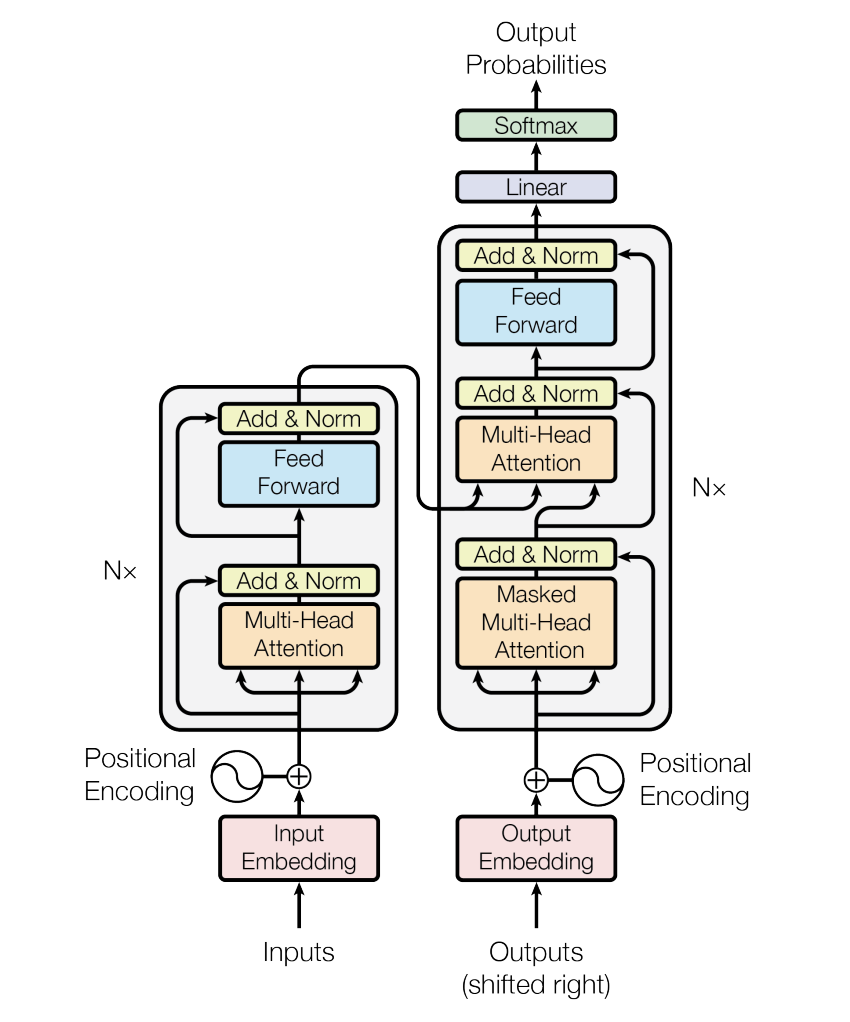
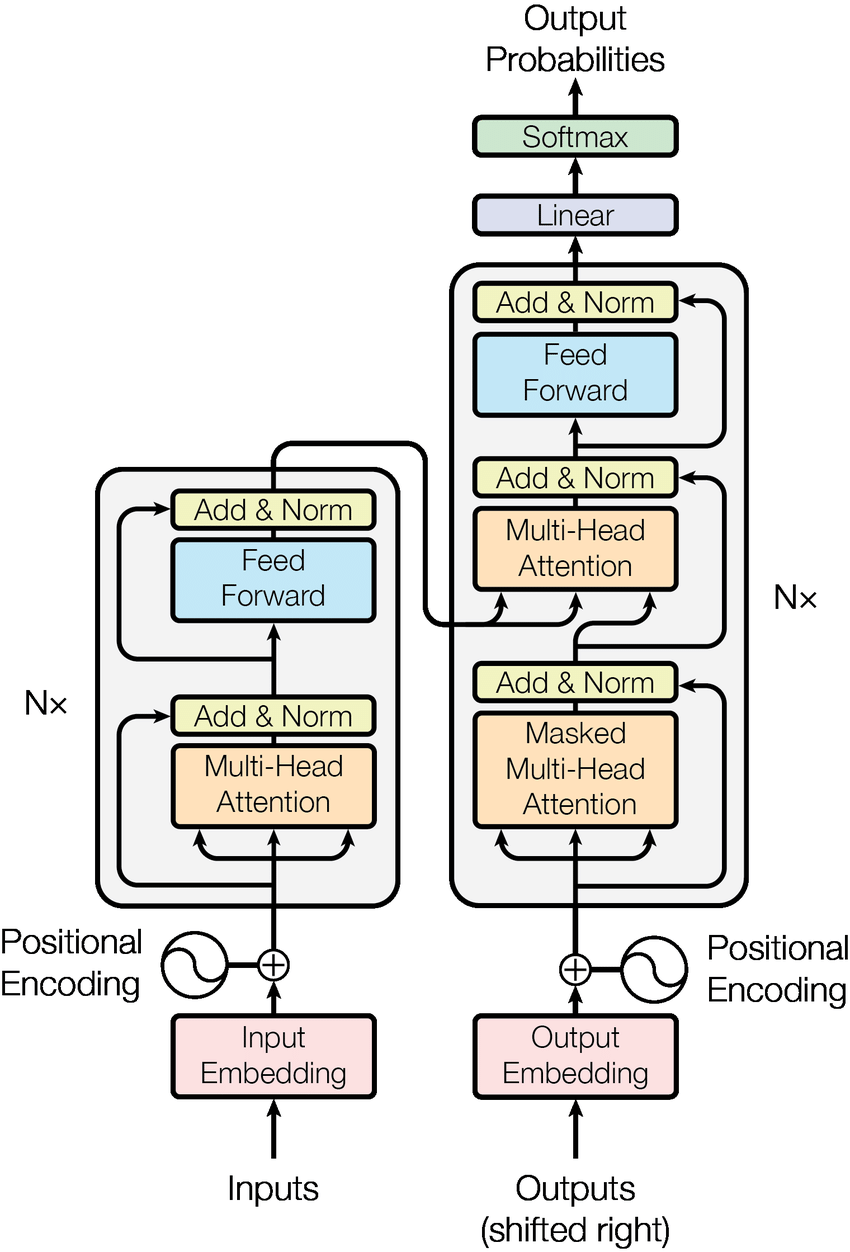
chapter 2.2

Changed region(s): [[0.0, 0.0, 1.0, 1.0]]

diff --git a/src/chapters/chapter-2/02-transformer.tex b/src/chapters/chapter-2/02-transformer.tex
@@ -1,14 +1,21 @@
 \section{\textit{Transformer}}
 
-\textit{Transformer} telah mengubah lanskap pemrosesan bahasa alami (NLP) dengan cara yang signifikan. Dalam penelitian mereka, penulis memperkenalkan konsep baru yang disebut mekanisme \textit{self-attention} \parencite{transformers}. Mekanisme ini memungkinkan setiap kata dalam input untuk memfokuskan pada kata-kata lain dalam sekuens yang sama, memberikan model kemampuan untuk memahami konteks dengan lebih baik. Ini berbeda dari pendekatan yang biasanya mengandalkan informasi lokal atau posisi tetap dalam sekuens.
+\textit{Transformer} telah mengubah lanskap pemrosesan bahasa alami (NLP) dengan cara yang signifikan. Dalam penelitian mereka, penulis memperkenalkan konsep baru yang disebut mekanisme \textit{self-attention} \parencite{transformers}. Mekanisme ini memungkinkan setiap kata dalam input untuk memfokuskan pada kata-kata lain dalam sekuens yang sama, memberikan model kemampuan untuk memahami konteks dengan lebih baik. Ini berbeda dari pendekatan yang biasanya mengandalkan informasi lokal atau posisi tetap dalam sekuens. Model transformers mengatasi isu pada \textit{Recurrent Neural Network} (RNN) yang tidak bisa menjalani pemrosesan secara paralel \parencite{transformers}.
 
 \begin{figure}[ht]
     \centering
-    \includegraphics[width=0.8\textwidth]{chapter-2/transformer.png}
+    \includegraphics[height=0.5\textheight]{chapter-2/transformer.png}
     \caption{Arsitektur \textit{Transformer} \parencite{transformers}}
     \label{fig:transformer}
 \end{figure}
 
-Arsitektur dari \textit{transformer} dapat dilihat pada Gambar \ref{fig:transformer}. Salah satu keunggulan utama dari mekanisme \textit{self-attention} adalah kemampuannya untuk menangani sekuens dengan panjang yang berbeda dan memahami hubungan antar kata tanpa mempertimbangkan jarak antara mereka. Ini memungkinkan \textit{transformer} untuk memahami ketergantungan jarak jauh dalam teks, sesuatu yang sulit dicapai oleh arsitektur sebelumnya seperti RNN dan LSTM.
+Arsitektur dari \textit{transformer} dapat dilihat pada Gambar \ref{fig:transformer}. Salah satu keunggulan utama dari mekanisme \textit{self-attention} adalah kemampuannya untuk menangani sekuens dengan panjang yang berbeda dan memahami hubungan antar kata tanpa mempertimbangkan jarak antara mereka. Ini memungkinkan \textit{transformer} untuk memahami ketergantungan jarak jauh dalam teks, sesuatu yang sulit dicapai oleh arsitektur sebelumnya seperti RNN dan LSTM. Arsitektur dari \textit{transformers} terdiri \textit{encoder} dan \textit{decoder}, keduanya terdiri dari 6 tumpukan \textit{layer} yang identik. Setiap \textit{layer} pada \textit{Encoder} mempunyai 2 \textit{sub-layer}, yaitu \textit{multi-head attention} dan \textit{feed forward}. Sedangkan, untuk \textit{decoder} mempunyai 3 \textit{sub-layer} dengan 2 \textit{sub-layer} yang sama pada \textit{encoder} dan 1 \textit{sub-layer} tambahan yang merupakan \textit{multi-head attention} terhadap keluaran dari \textit{encoder} \parencite{transformers}.
 
-Selain itu, \textit{transformer} dirancang untuk paralelisasi, yang memungkinkannya dilatih dengan cepat pada perangkat keras modern. Ini mempercepat penelitian dan pengembangan dalam NLP dan memungkinkan \textit{training} model skala besar seperti BERT dan GPT. Sejak diperkenalkannya \textit{transformer}, banyak variasi dan peningkatan telah dikembangkan. Namun, prinsip dasar \textit{self-attention} dan paralelisasi yang diperkenalkan oleh \textit{transformer} tetap menjadi inti dari banyak inovasi dalam NLP.
+Mekanisme \textit{multi-head attention} terdiri dari beberapa \textit{attention head} yang dapat dideskripsikan sebagai pemetaan antara sebuah \textit{query} dan serangkaian \textit{key-value} ke sebuah keluaran. Perhitungan yang dilakukan untuk mendapatkan \textit{attention} adalah dengan menggunakan \textit{scaled dot-product attention} dengan rumus sebagai berikut \parencite{transformers}.
+
+\begin{equation}
+    Attention(Q, K, V) = softmax(\frac{QK^{T}}{\sqrt{d_k}})V
+    \label{eq:attention}
+\end{equation}
+
+Pada rumus \ref{eq:attention}, Q, K, dan V masing-masing adalah matriks dari \textit{query, key}, dan \textit{value} yang diperoleh dari urutan masukan dan diproses secara linear ke dalam mekanisme \textit{self-attention} dari transformers. Kemudian, bobot dari \textit{attention} dikalikan dengan matriks \textit{value} untuk mendapat jumlah bobot dari nilai-nilai tersebut. Dalam mekanisme \textit{multi-head attention}, proses perhitungan dilakukan secara paralel menggunakan beberapa \textit{attention head} yang menghasilkan bobot \textit{attention} yang berbeda. Kemudian, bobot tersebut akan digabungkan dan diproyeksikan kembali untuk menghasilkan keluaran akhir dari \textit{multi-head attention}.

diff --git a/src/chapters/chapter-1/06-sistematika-pembahasan.tex b/src/chapters/chapter-1/06-sistematika-pembahasan.tex
@@ -2,23 +2,23 @@
 
 Konten dari Tugas Akhir ini  dibagi menjadi lima bab sebagai berikut.
 \begin{enumerate}
-    \item \textbf{Pendahuluan}
+    \item Pendahuluan
 
     Pada Bab I  dijelaskan gagasan utama dari tugas akhir ini yang berisi dari latar belakang, rumusan masalah, tujuan, batasan, metodologi hingga sistematika pembahasan.
 
-    \item \textbf{Studi Literatur}
+    \item Studi Literatur
 
     Selanjutnya, Bab II  menjelaskan hasil studi literatur yang berkaitan dengan pengerjaan tugas akhir ini. Bab II ini berisi tentang pemahaman dasar seputar topik yang  dibahas pada tugas akhir ini.
 
-    \item \textbf{Analisis Persoalan dan Rancangan Solusi}
+    \item Analisis Persoalan dan Rancangan Solusi
 
     Pada Bab III  dijelaskan analisis persoalan untuk menyusun rancangan solusi. Rancangan tersebut  dijelaskan pada bab ini sebelum diimplementasikan. Rancangan solusi  dipaparkan dalam bentuk diagram dan kajian dalam bab ini.
 
-    \item \textbf{Implementasi dan Pengujian}
+    \item Implementasi dan Pengujian
 
     Bab IV ini  berisikan kajian terhadap implementasi yang telah dibuat. Bab ini juga  membahas tahap-tahap pengujian dan hasilnya. Perbandingan beberapa model prediksi  dibahas pada bab ini.
 
-    \item \textbf{Kesimpulan dan Saran}
+    \item Kesimpulan dan Saran
 
     Bab V  menutup tugas akhir ini. Konten pada bab ini  menjawab rumusan masalah. Bab ini juga  menyebutkan saran-saran perbaikan yang bisa dipakai untuk penelitian berikutnya. Bab ini  menyimpulkan hasil implementasi dan rancangan solusi terhadap masalah yang sudah diidentifikasi.
 \end{enumerate}
